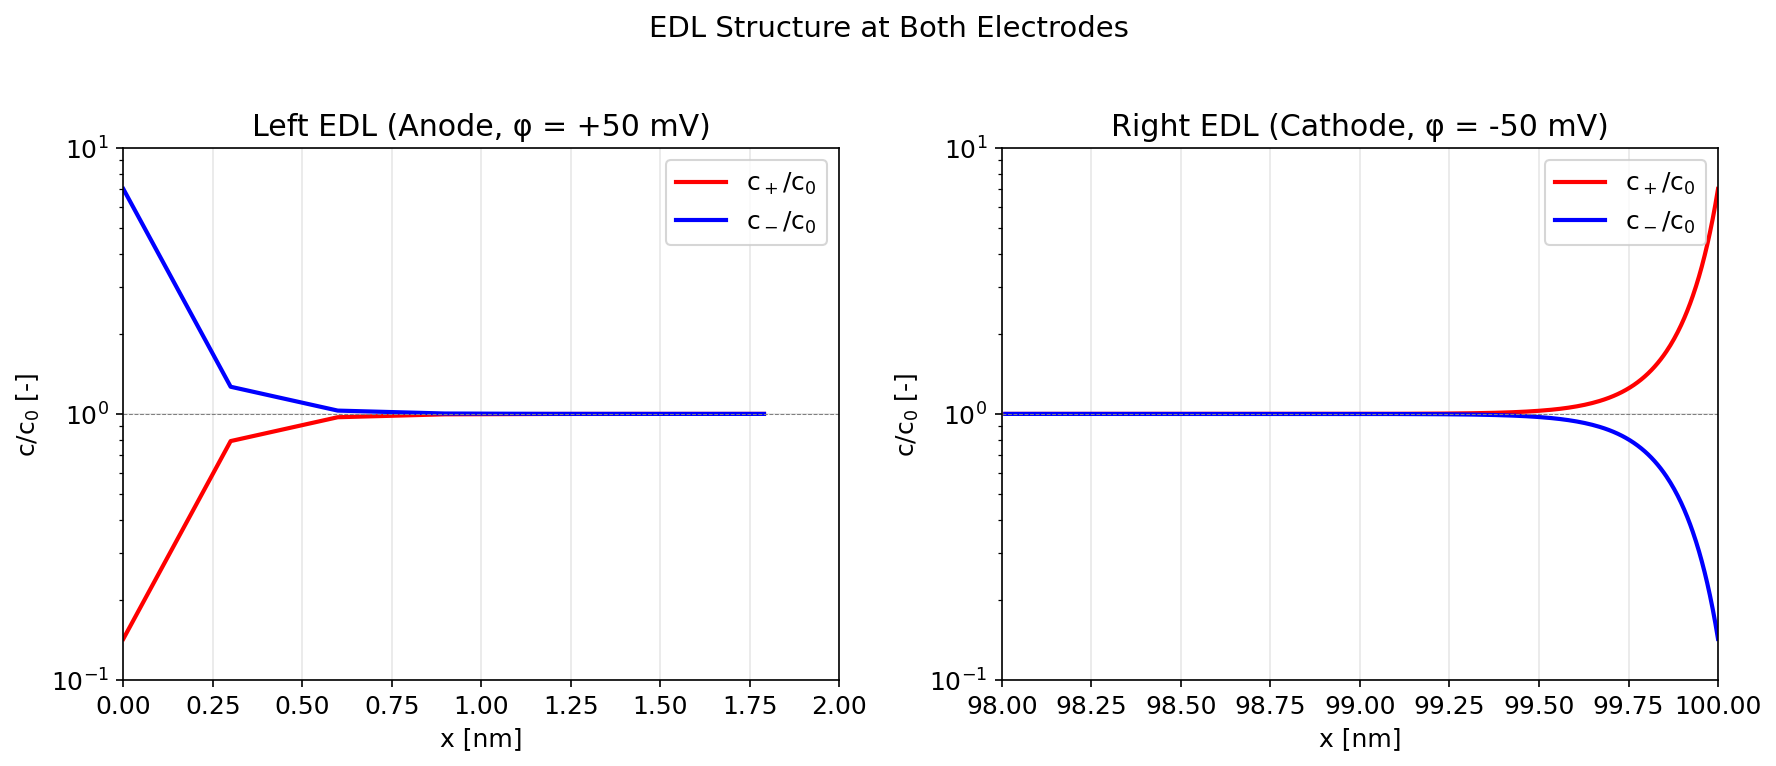
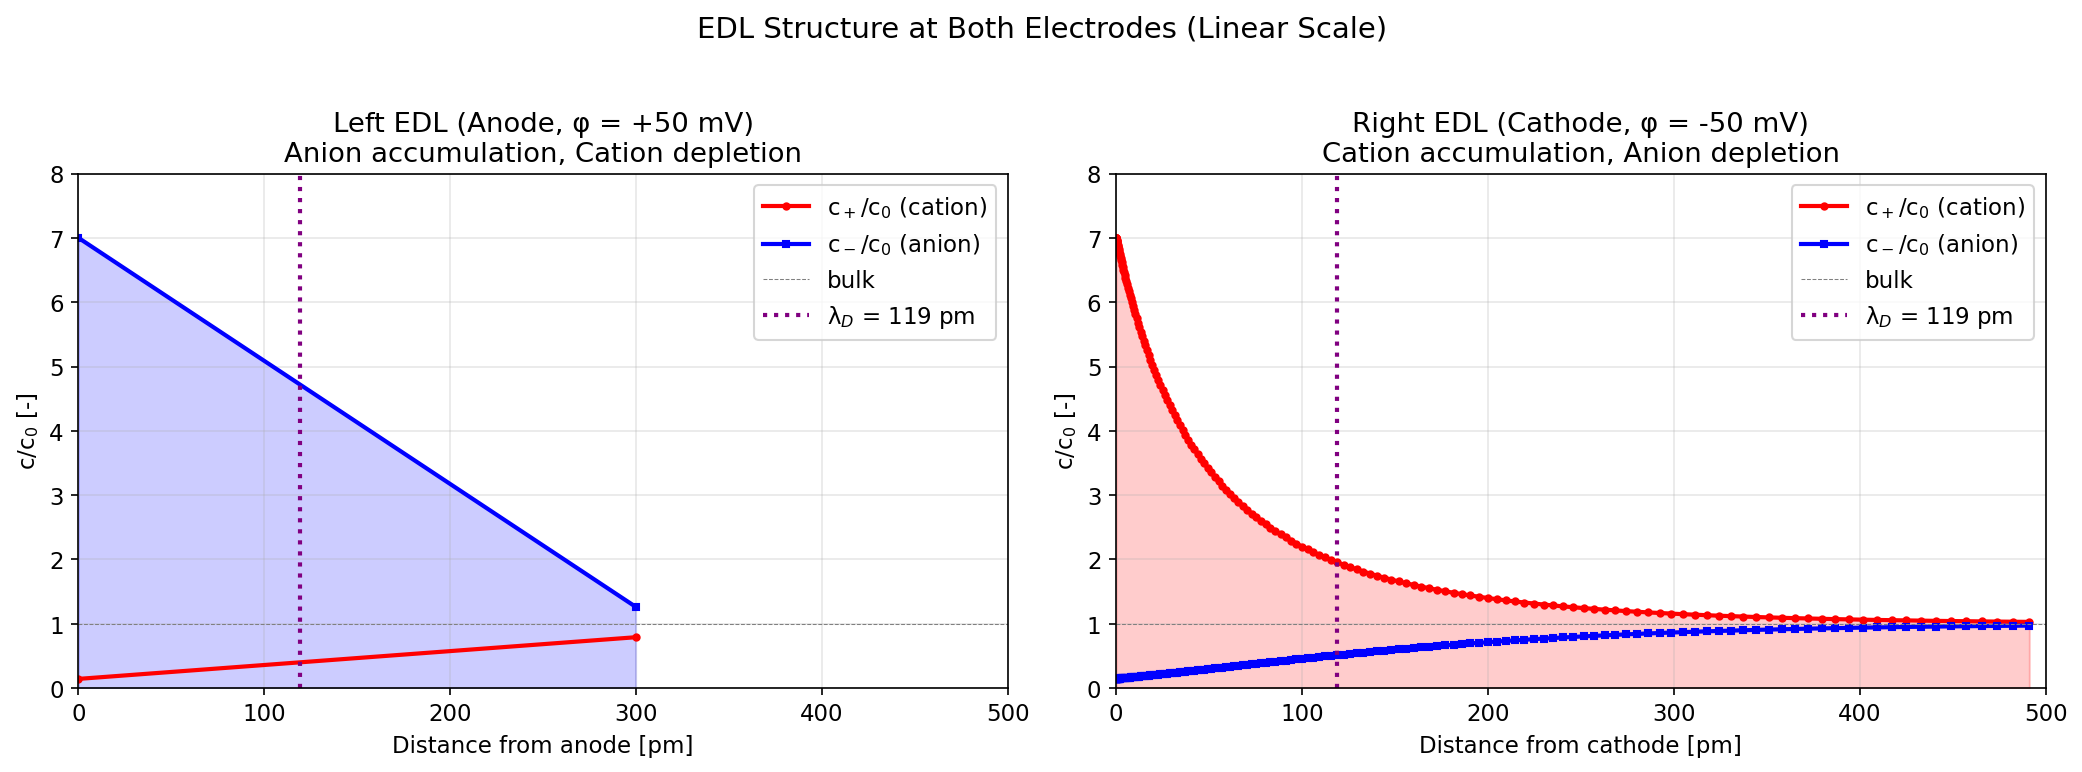
Improve dual-electrode plots with zoomed EDL views
- Add 2x2 layout with full domain and zoomed EDL views
- Show EDL structure at picometer scale for visibility
- Add linear-scale EDL plot with Debye length marker
- Include both figures in README documentation

🤖 Generated with [Claude Code](https://claude.com/claude-code)

diff --git a/scripts/plot_dual_electrode.py b/scripts/plot_dual_electrode.py
@@ -7,7 +7,7 @@ import numpy as np
 import matplotlib.pyplot as plt
 import matplotlib
 
-matplotlib.rcParams['font.size'] = 12
+matplotlib.rcParams['font.size'] = 11
 
 # Load data
 data = np.loadtxt('results/dual_electrode.dat', comments='#')
@@ -19,86 +19,127 @@ c_minus = data[:, 5]       # c- [mol/m^3]
 c_plus_ratio = data[:, 6]  # c+/c0
 c_minus_ratio = data[:, 7] # c-/c0
 
-# Create figure
-fig, axes = plt.subplots(1, 2, figsize=(12, 5))
+# Create 2x2 figure with overview and zoomed views
+fig = plt.figure(figsize=(14, 10))
 
-# Left plot: Potential profile
-ax1 = axes[0]
-ax1.plot(x_nm, phi_mV, 'b-', linewidth=2, label='PNP numerical')
+# Top left: Full potential profile
+ax1 = fig.add_subplot(2, 2, 1)
+ax1.plot(x_nm, phi_mV, 'b-', linewidth=2)
 ax1.axhline(y=0, color='gray', linestyle='--', linewidth=0.5)
 ax1.set_xlabel('x [nm]')
 ax1.set_ylabel('φ [mV]')
-ax1.set_title('Electric Potential Profile')
+ax1.set_title('Electric Potential Profile (Full Domain)')
 ax1.set_xlim([0, 100])
 ax1.set_ylim([-60, 60])
 ax1.grid(True, alpha=0.3)
-ax1.legend()
+ax1.annotate('Anode\n+50 mV', xy=(0, 50), xytext=(5, 40), fontsize=10, color='red')
+ax1.annotate('Cathode\n-50 mV', xy=(100, -50), xytext=(80, -40), fontsize=10, color='blue')
 
-# Add annotations
-ax1.annotate('φ = +50 mV\n(anode)', xy=(0, 50), xytext=(10, 45),
-            fontsize=10, ha='left')
-ax1.annotate('φ = -50 mV\n(cathode)', xy=(100, -50), xytext=(70, -45),
-            fontsize=10, ha='left')
-
-# Right plot: Ion concentration profiles
-ax2 = axes[1]
+# Top right: Full concentration profile
+ax2 = fig.add_subplot(2, 2, 2)
 ax2.semilogy(x_nm, c_plus_ratio, 'r-', linewidth=2, label='c$_+$/c$_0$ (cation)')
 ax2.semilogy(x_nm, c_minus_ratio, 'b-', linewidth=2, label='c$_-$/c$_0$ (anion)')
 ax2.axhline(y=1, color='gray', linestyle='--', linewidth=0.5, label='bulk')
 ax2.set_xlabel('x [nm]')
 ax2.set_ylabel('c/c$_0$ [-]')
-ax2.set_title('Ion Concentration Profiles')
+ax2.set_title('Ion Concentration Profiles (Full Domain)')
 ax2.set_xlim([0, 100])
-ax2.set_ylim([1e-2, 1e2])
+ax2.set_ylim([1e-1, 1e1])
 ax2.grid(True, alpha=0.3)
-ax2.legend()
+ax2.legend(loc='upper right')
 
-# Add annotations for EDL regions
-ax2.axvspan(0, 1, alpha=0.2, color='red', label='_nolegend_')
-ax2.axvspan(99, 100, alpha=0.2, color='blue', label='_nolegend_')
-ax2.text(0.5, 50, 'EDL\n(anode)', fontsize=9, ha='center', va='top')
-ax2.text(99.5, 50, 'EDL\n(cathode)', fontsize=9, ha='center', va='top')
+# Bottom left: Left electrode EDL (zoomed)
+ax3 = fig.add_subplot(2, 2, 3)
+mask_left = x_nm <= 1.0
+ax3.plot(x_nm[mask_left] * 1000, phi_mV[mask_left], 'b-', linewidth=2)  # Convert to pm for visibility
+ax3.set_xlabel('x [pm]')
+ax3.set_ylabel('φ [mV]')
+ax3.set_title('Left EDL Structure (Anode, zoomed)')
+ax3.set_xlim([0, 1000])
+ax3.grid(True, alpha=0.3)
 
-plt.suptitle('Dual-Electrode Model: Capacitor Structure\n(φ$_L$ = +50 mV, φ$_R$ = -50 mV, c$_0$ = 1 M)',
-             fontsize=14, y=1.02)
+# Add second y-axis for concentration
+ax3b = ax3.twinx()
+ax3b.semilogy(x_nm[mask_left] * 1000, c_plus_ratio[mask_left], 'r--', linewidth=2, label='c$_+$/c$_0$')
+ax3b.semilogy(x_nm[mask_left] * 1000, c_minus_ratio[mask_left], 'g--', linewidth=2, label='c$_-$/c$_0$')
+ax3b.set_ylabel('c/c$_0$ [-]', color='green')
+ax3b.set_ylim([1e-1, 1e1])
+ax3b.legend(loc='right')
+
+# Bottom right: Right electrode EDL (zoomed)
+ax4 = fig.add_subplot(2, 2, 4)
+mask_right = x_nm >= 99.0
+x_right_pm = (100 - x_nm[mask_right]) * 1000  # Distance from right electrode in pm
+ax4.plot(x_right_pm[::-1], phi_mV[mask_right][::-1], 'b-', linewidth=2)
+ax4.set_xlabel('Distance from cathode [pm]')
+ax4.set_ylabel('φ [mV]')
+ax4.set_title('Right EDL Structure (Cathode, zoomed)')
+ax4.set_xlim([0, 1000])
+ax4.grid(True, alpha=0.3)
+
+# Add second y-axis for concentration
+ax4b = ax4.twinx()
+ax4b.semilogy(x_right_pm[::-1], c_plus_ratio[mask_right][::-1], 'r--', linewidth=2, label='c$_+$/c$_0$')
+ax4b.semilogy(x_right_pm[::-1], c_minus_ratio[mask_right][::-1], 'g--', linewidth=2, label='c$_-$/c$_0$')
+ax4b.set_ylabel('c/c$_0$ [-]', color='green')
+ax4b.set_ylim([1e-1, 1e1])
+ax4b.legend(loc='right')
+
+plt.suptitle('Dual-Electrode Model: Capacitor Structure\n(φ$_L$ = +50 mV, φ$_R$ = -50 mV, c$_0$ = 1 M, λ$_D$ = 0.12 nm)',
+             fontsize=14, y=0.98)
 plt.tight_layout()
 plt.savefig('results/dual_electrode.png', dpi=150, bbox_inches='tight')
 plt.close()
 
 print("Saved: results/dual_electrode.png")
 
-# Also create a zoomed view of EDL regions
-fig, axes = plt.subplots(1, 2, figsize=(12, 5))
+# Create additional detailed EDL structure plot
+fig, axes = plt.subplots(1, 2, figsize=(14, 5))
 
-# Left EDL (anode)
+# Left EDL with linear scale
 ax1 = axes[0]
-mask_left = x_nm <= 2
-ax1.semilogy(x_nm[mask_left], c_plus_ratio[mask_left], 'r-', linewidth=2, label='c$_+$/c$_0$')
-ax1.semilogy(x_nm[mask_left], c_minus_ratio[mask_left], 'b-', linewidth=2, label='c$_-$/c$_0$')
-ax1.axhline(y=1, color='gray', linestyle='--', linewidth=0.5)
-ax1.set_xlabel('x [nm]')
+mask_left = x_nm <= 0.5
+x_left_pm = x_nm[mask_left] * 1000  # pm
+
+ax1.plot(x_left_pm, c_plus_ratio[mask_left], 'r-', linewidth=2, marker='o', markersize=3, label='c$_+$/c$_0$ (cation)')
+ax1.plot(x_left_pm, c_minus_ratio[mask_left], 'b-', linewidth=2, marker='s', markersize=3, label='c$_-$/c$_0$ (anion)')
+ax1.axhline(y=1, color='gray', linestyle='--', linewidth=0.5, label='bulk')
+ax1.set_xlabel('Distance from anode [pm]')
 ax1.set_ylabel('c/c$_0$ [-]')
-ax1.set_title('Left EDL (Anode, φ = +50 mV)')
-ax1.set_xlim([0, 2])
-ax1.set_ylim([1e-1, 1e1])
+ax1.set_title('Left EDL (Anode, φ = +50 mV)\nAnion accumulation, Cation depletion')
+ax1.set_xlim([0, 500])
+ax1.set_ylim([0, 8])
 ax1.grid(True, alpha=0.3)
 ax1.legend()
+ax1.fill_between(x_left_pm, 0, c_minus_ratio[mask_left], alpha=0.2, color='blue')
 
-# Right EDL (cathode)
+# Add Debye length marker
+lambda_D_pm = 119  # pm
+ax1.axvline(x=lambda_D_pm, color='purple', linestyle=':', linewidth=2, label=f'λ$_D$ = {lambda_D_pm} pm')
+ax1.legend()
+
+# Right EDL with linear scale
 ax2 = axes[1]
-mask_right = x_nm >= 98
-ax2.semilogy(x_nm[mask_right], c_plus_ratio[mask_right], 'r-', linewidth=2, label='c$_+$/c$_0$')
-ax2.semilogy(x_nm[mask_right], c_minus_ratio[mask_right], 'b-', linewidth=2, label='c$_-$/c$_0$')
-ax2.axhline(y=1, color='gray', linestyle='--', linewidth=0.5)
-ax2.set_xlabel('x [nm]')
+mask_right = x_nm >= 99.5
+x_right_pm = (100 - x_nm[mask_right]) * 1000  # Distance from cathode in pm
+
+ax2.plot(x_right_pm[::-1], c_plus_ratio[mask_right][::-1], 'r-', linewidth=2, marker='o', markersize=3, label='c$_+$/c$_0$ (cation)')
+ax2.plot(x_right_pm[::-1], c_minus_ratio[mask_right][::-1], 'b-', linewidth=2, marker='s', markersize=3, label='c$_-$/c$_0$ (anion)')
+ax2.axhline(y=1, color='gray', linestyle='--', linewidth=0.5, label='bulk')
+ax2.set_xlabel('Distance from cathode [pm]')
 ax2.set_ylabel('c/c$_0$ [-]')
-ax2.set_title('Right EDL (Cathode, φ = -50 mV)')
-ax2.set_xlim([98, 100])
-ax2.set_ylim([1e-1, 1e1])
+ax2.set_title('Right EDL (Cathode, φ = -50 mV)\nCation accumulation, Anion depletion')
+ax2.set_xlim([0, 500])
+ax2.set_ylim([0, 8])
 ax2.grid(True, alpha=0.3)
 ax2.legend()
+ax2.fill_between(x_right_pm[::-1], 0, c_plus_ratio[mask_right][::-1], alpha=0.2, color='red')
 
-plt.suptitle('EDL Structure at Both Electrodes', fontsize=14, y=1.02)
+# Add Debye length marker
+ax2.axvline(x=lambda_D_pm, color='purple', linestyle=':', linewidth=2, label=f'λ$_D$ = {lambda_D_pm} pm')
+ax2.legend()
+
+plt.suptitle('EDL Structure at Both Electrodes (Linear Scale)', fontsize=14, y=1.02)
 plt.tight_layout()
 plt.savefig('results/dual_electrode_edl.png', dpi=150, bbox_inches='tight')
 plt.close()

diff --git a/README.md b/README.md
@@ -546,7 +546,15 @@ $$p = \frac{\log(L_2^{(1)} / L_2^{(2)})}{\log(N^{(2)} / N^{(1)})}$$
 
 ![Dual Electrode](results/dual_electrode.png)
 
-*図: 両電極モデル（キャパシタ構造）の計算結果。左: 電位プロファイル、右: イオン濃度分布。左電極（+50 mV）近傍ではアニオンが蓄積し、右電極（-50 mV）近傍ではカチオンが蓄積する。*
+*図: 両電極モデル（キャパシタ構造）の計算結果。上段: 全体の電位・濃度プロファイル、下段: 各電極近傍のEDL構造（ピコメートルスケールで拡大表示）。*
+
+</div>
+
+<div align="center">
+
+![Dual Electrode EDL](results/dual_electrode_edl.png)
+
+*図: 両電極近傍のEDL構造（線形スケール）。左: アノード（+50 mV）近傍でのアニオン蓄積、右: カソード（-50 mV）近傍でのカチオン蓄積。紫の点線はDebye長（λ_D = 119 pm）を示す。*
 
 </div>
 
